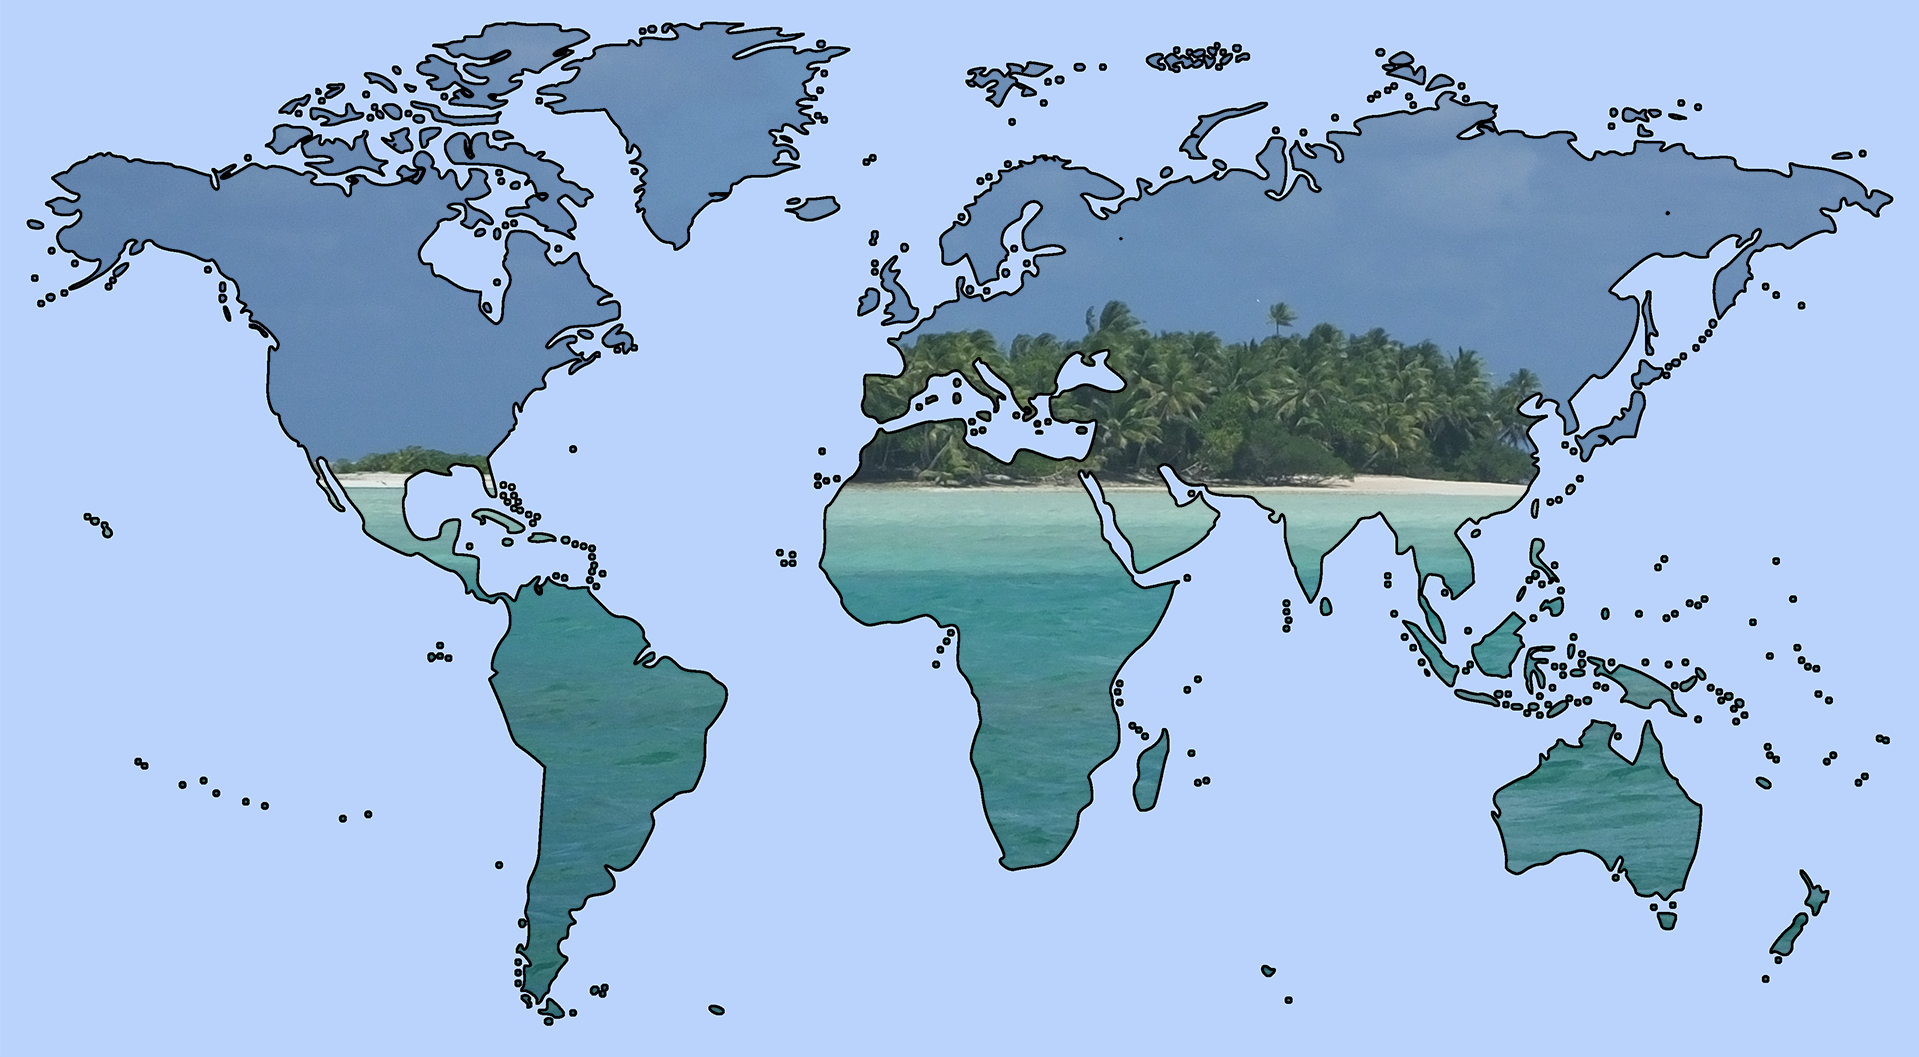
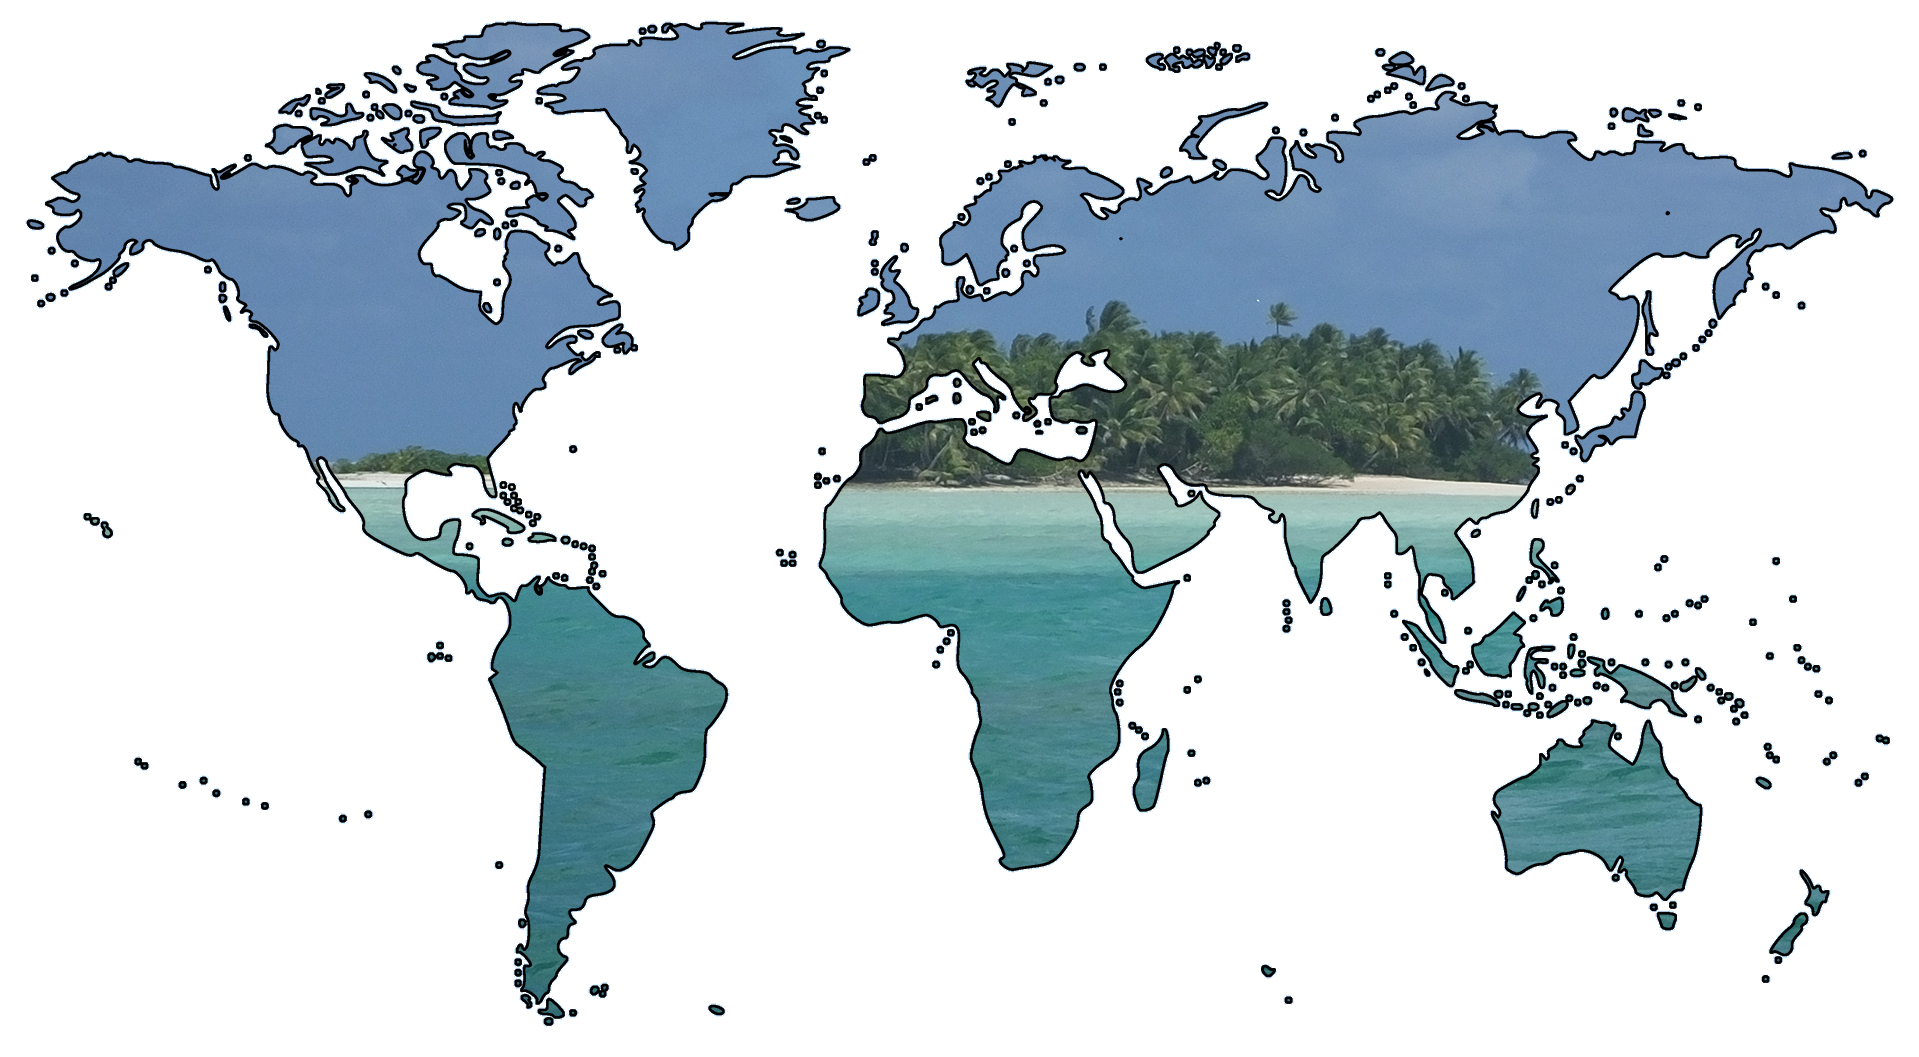
Update background and change tuvalu button background color

diff --git a/client/css/index.css b/client/css/index.css
@@ -1,1 +1,1 @@
-*{margin:0;padding:0;font-family:'Open Sans',sans-serif}img{pointer-events:none}a{text-decoration:none;color:inherit}.main-yield-content{padding-top:60px}.navbar{height:60px;display:flex;justify-content:space-between;align-items:center;background-color:#606075;position:fixed;width:100%}@media all and (max-width:500px){.navbar{display:none}}.navbar nav{padding:0 20px;display:flex;justify-content:flex-end;background-color:#606075}.navbar nav p{padding:0 15px;cursor:pointer;color:#fff}.navbar nav p a:hover{border-bottom:2px solid #000}.navbar__home{justify-content:flex-start;align-items:center}@media all and (min-width:500px){.mobile-navbar{display:none}}.mobile-navbar__icons{display:flex;justify-content:space-between}.mobile-navbar__icons i{padding:15px;font-size:45px;cursor:pointer}.mobile-navbar__dropdown{text-align:center}.mobile-navbar__dropdown p{padding:3px}.footer{width:100%;height:80px;background-color:#282828;display:flex;align-items:center}@media all and (max-width:660px){.footer{height:200px}}.footer__links{display:flex;justify-content:flex-end;align-items:center;flex-basis:576px;flex:5}@media all and (max-width:660px){.footer__links{flex-direction:column}}.footer__links a{margin:0 15px;padding:5px 10px;border-radius:7px;border:1px solid #fff;font-size:15px;color:#fff}.footer__links a:hover{background-color:teal}@media all and (max-width:660px){.footer__links a{margin:10px}}.footer__text{padding-left:30px;min-width:150px;width:800px;color:#fff;display:flex;align-items:center;flex:1}.footer__text p{line-height:1.3}@keyframes glowing{0%{background-color:#b20000;box-shadow:0 0 3px #b20000}50%{background-color:red;box-shadow:0 0 40px red}100%{background-color:#b20000;box-shadow:0 0 3px #b20000}}@keyframes swing{0%{transform:rotateY(-3deg) skewY(-3deg)}50%{transform:rotateY(3deg) skewY(3deg)}100%{transform:rotateY(-3deg) skewY(-3deg)}}@keyframes slideFromRight{0%{transform:translateX(30%)}100%{transform:translateX(0)}}@keyframes slideFromRightTwo{0%{transform:translateX(100%)}10%{transform:translateX(100%)}20%{transform:translateX(100%)}30%{transform:translateX(100%)}40%{transform:translateX(100%)}50%{transform:translateX(100%)}100%{transform:translateX(0)}}.home{min-width:100vw;min-height:calc(100vh - 60px);padding-top:30px;background-color:#bad3fc;overflow-x:hidden}.home__header{text-align:center;font-family:'Abril Fatface',cursive}.home .delay{animation-delay:5s;animation:slideFromRightTwo 15s 1}.home__options{min-height:580px;background-image:url(images/map-background.png);background-repeat:no-repeat;background-size:contain;background-position:center}.home__options button{position:absolute;height:40px;width:40px;border-radius:100%;border:none;animation:glowing 1.5s infinite;right:10%}.home__options--swing{width:300px;height:90px;position:absolute;left:40px;bottom:0;animation:swing 2.5s infinite}.home__title{margin:0 auto;text-align:center}.home__title__info{padding:30px}.home__title__info p{font-size:25px;font-family:Sansita,sans-serif}.home__title__description{font-family:Sansita,sans-serif;font-size:30px;text-align:center;animation:slideFromRight 10s 1}.home__title div{padding-bottom:30px}.art{padding-top:30px}.art__header{text-align:center}.art__text{margin:0 auto;max-width:800px;padding:10px}.art__text p{padding:15px 0;line-height:1.7}.team{margin:0 auto;max-width:80%;width:900px;padding-top:30px}.team h1{font-weight:400;text-align:center}.team div{padding:15px}.team div h2{padding-bottom:7px;font-weight:400;font-size:25px}.team__research__header{text-align:left}.team .team_header{font-size:50px}.goals{margin:0 auto;max-width:800px;padding-top:30px}.goals .goals__header{text-align:center;font-size:2em}.goals .goals__descriptions{padding:30px;color:#000}.goals .goals__descriptions div{padding:15px}.goals__programs ul li{margin-left:50px}.goals__programs ul li a{text-decoration:none;color:#00f}.goals__programs ul li a:hover{border-bottom:1px solid #000;text-decoration:none;background-color:gray}.goals__programs ul li a:hover:after{content:"\00bb"}.news{margin:0 auto;max-width:900px;width:80%;padding-top:30px}.news h1{text-align:center}.news .news__block{margin:0 auto;max-width:900px;width:80%;padding:15px 30px}.news .news__block h3{margin:0 auto}.about{padding-top:30px;margin:0 auto;max-width:1050px}.about__header{font-size:40px;text-align:center}.about p{padding:15px 30px;color:#000;font-size:20px;line-height:1.5em}.about figcaption{font-style:italic}.about__crisis img{float:left;width:500px;margin:30px 30px 30px 60px}@media all and (max-width:700px){.about__crisis img{display:block;margin:0 auto;float:none;padding:0;max-width:80%}}.about__science figure{display:block;margin:0 auto;width:800px;max-width:80%;padding:15px}.about__science figure img{margin:0 auto;max-width:100%;width:100%}.about__culture img{margin:0 auto;display:block;max-width:80%;width:600px;padding:15px}.about__culture figure{margin:0 auto;max-width:80%;width:600px;display:flex;flex-direction:row;justify-content:center;align-items:center}
+*{margin:0;padding:0;font-family:'Open Sans',sans-serif}img{pointer-events:none}a{text-decoration:none;color:inherit}.main-yield-content{padding-top:60px}.navbar{height:60px;display:flex;justify-content:space-between;align-items:center;background-color:#606075;position:fixed;width:100%;opacity:1;z-index:1}@media all and (max-width:500px){.navbar{display:none}}.navbar nav{padding:0 20px;display:flex;justify-content:flex-end;background-color:#606075}.navbar nav p{padding:0 15px;cursor:pointer;color:#fff}.navbar nav p a:hover{border-bottom:2px solid #000}.navbar__home{justify-content:flex-start;align-items:center}@media all and (min-width:500px){.mobile-navbar{display:none}}.mobile-navbar__icons{display:flex;justify-content:space-between}.mobile-navbar__icons i{padding:15px;font-size:45px;cursor:pointer}.mobile-navbar__dropdown{text-align:center}.mobile-navbar__dropdown p{padding:3px}.footer{width:100%;height:80px;background-color:#282828;display:flex;align-items:center}@media all and (max-width:660px){.footer{height:200px}}.footer__links{display:flex;justify-content:flex-end;align-items:center;flex-basis:576px;flex:5}@media all and (max-width:660px){.footer__links{flex-direction:column}}.footer__links a{margin:0 15px;padding:5px 10px;border-radius:7px;border:1px solid #fff;font-size:15px;color:#fff}.footer__links a:hover{background-color:teal}@media all and (max-width:660px){.footer__links a{margin:10px}}.footer__text{padding-left:30px;min-width:150px;width:800px;color:#fff;display:flex;align-items:center;flex:1}.footer__text p{line-height:1.3}@keyframes glowing{0%{background-color:#7bd5c7;box-shadow:0 0 3px #7bd5c7}50%{background-color:#019fde;box-shadow:0 0 40px #019fde}100%{background-color:#7bd5c7;box-shadow:0 0 3px #7bd5c7}}@keyframes swing{0%{transform:rotateY(-3deg) skewY(-3deg)}50%{transform:rotateY(3deg) skewY(3deg)}100%{transform:rotateY(-3deg) skewY(-3deg)}}@keyframes slideFromRight{0%{transform:translateX(30%)}100%{transform:translateX(0)}}@keyframes slideFromRightTwo{0%{transform:translateX(100%)}10%{transform:translateX(100%)}20%{transform:translateX(100%)}30%{transform:translateX(100%)}40%{transform:translateX(100%)}50%{transform:translateX(100%)}100%{transform:translateX(0)}}.home{min-width:100vw;min-height:calc(100vh - 60px);padding-top:30px;background-color:#addc46;overflow-x:hidden}.home__header{text-align:center;font-family:'Abril Fatface',cursive}.home .delay{animation-delay:5s;animation:slideFromRightTwo 15s 1}.home__options{min-height:580px;background-image:url(images/map-background.png);background-repeat:no-repeat;background-size:contain;background-position:center}.home__options button{position:absolute;height:40px;width:40px;border-radius:100%;border:none;animation:glowing 1.5s infinite;right:10%;z-index:0}.home__options--swing{width:300px;height:90px;position:absolute;left:40px;bottom:0;animation:swing 2.5s infinite}.home__title{margin:0 auto;text-align:center}.home__title__info{padding:30px}.home__title__info p{font-size:25px;font-family:Sansita,sans-serif}.home__title__description{font-family:Sansita,sans-serif;font-size:30px;text-align:center;animation:slideFromRight 10s 1}.home__title div{padding-bottom:30px}.art{padding-top:30px}.art__header{text-align:center}.art__text{margin:0 auto;max-width:800px;padding:10px}.art__text p{padding:15px 0;line-height:1.7}.team{margin:0 auto;max-width:80%;width:900px;padding-top:30px}.team h1{font-weight:400;text-align:center}.team div{padding:15px}.team div h2{padding-bottom:7px;font-weight:400;font-size:25px}.team__research__header{text-align:left}.team .team_header{font-size:50px}.goals{margin:0 auto;max-width:800px;padding-top:30px}.goals .goals__header{text-align:center;font-size:2em}.goals .goals__descriptions{padding:30px;color:#000}.goals .goals__descriptions div{padding:15px}.goals__programs ul li{margin-left:50px}.goals__programs ul li a{text-decoration:none;color:#00f}.goals__programs ul li a:hover{border-bottom:1px solid #000;text-decoration:none;background-color:gray}.goals__programs ul li a:hover:after{content:"\00bb"}.news{margin:0 auto;max-width:900px;width:80%;padding-top:30px}.news h1{text-align:center}.news .news__block{margin:0 auto;max-width:900px;width:80%;padding:15px 30px}.news .news__block h3{margin:0 auto}.about{padding-top:30px;margin:0 auto;max-width:1050px}.about__header{font-size:40px;text-align:center}.about p{padding:15px 30px;color:#000;font-size:20px;line-height:1.5em}.about figcaption{font-style:italic}.about__crisis img{float:left;width:500px;margin:30px 30px 30px 60px}@media all and (max-width:700px){.about__crisis img{display:block;margin:0 auto;float:none;padding:0;max-width:80%}}.about__science figure{display:block;margin:0 auto;width:800px;max-width:80%;padding:15px}.about__science figure img{margin:0 auto;max-width:100%;width:100%}.about__culture img{margin:0 auto;display:block;max-width:80%;width:600px;padding:15px}.about__culture figure{margin:0 auto;max-width:80%;width:600px;display:flex;flex-direction:row;justify-content:center;align-items:center}

diff --git a/client/scss/home.scss b/client/scss/home.scss
@@ -1,7 +1,7 @@
 @keyframes glowing {
-	0% { background-color: #B20000; box-shadow: 0 0 3px #B20000; }
-	50% { background-color: #FF0000; box-shadow: 0 0 40px #FF0000; }
-	100% { background-color: #B20000; box-shadow: 0 0 3px #B20000; }
+	0% { background-color: rgb(123, 213, 199); box-shadow: 0 0 3px rgb(123, 213, 199); }
+	50% { background-color: #019FDE; box-shadow: 0 0 40px #019FDE; }
+	100% { background-color: rgb(123, 213, 199); box-shadow: 0 0 3px rgb(123, 213, 199); }
 }
 
 @keyframes swing {
@@ -29,7 +29,7 @@
 	min-width: 100vw;
 	min-height: calc(100vh - #{$navbar-height});
 	padding-top: 30px;
-	background-color: rgb(186, 211, 252);
+	background-color: rgb(173, 220, 70);
 	overflow-x: hidden;
 
 	&__header {
@@ -57,6 +57,7 @@
 			border: none;
 			animation: glowing 1500ms infinite;
 			right: 10%;
+			z-index: 0;
 		}
 
 		&--swing {

diff --git a/client/scss/navbar.scss b/client/scss/navbar.scss
@@ -8,7 +8,8 @@ $navbar-height: 60px;
 	background-color: #606075;
 	position:fixed;
 	width:100%;
-
+	opacity: 1;
+	z-index: 1;
 
 	@media all and (max-width: 500px) {
 		display: none;
